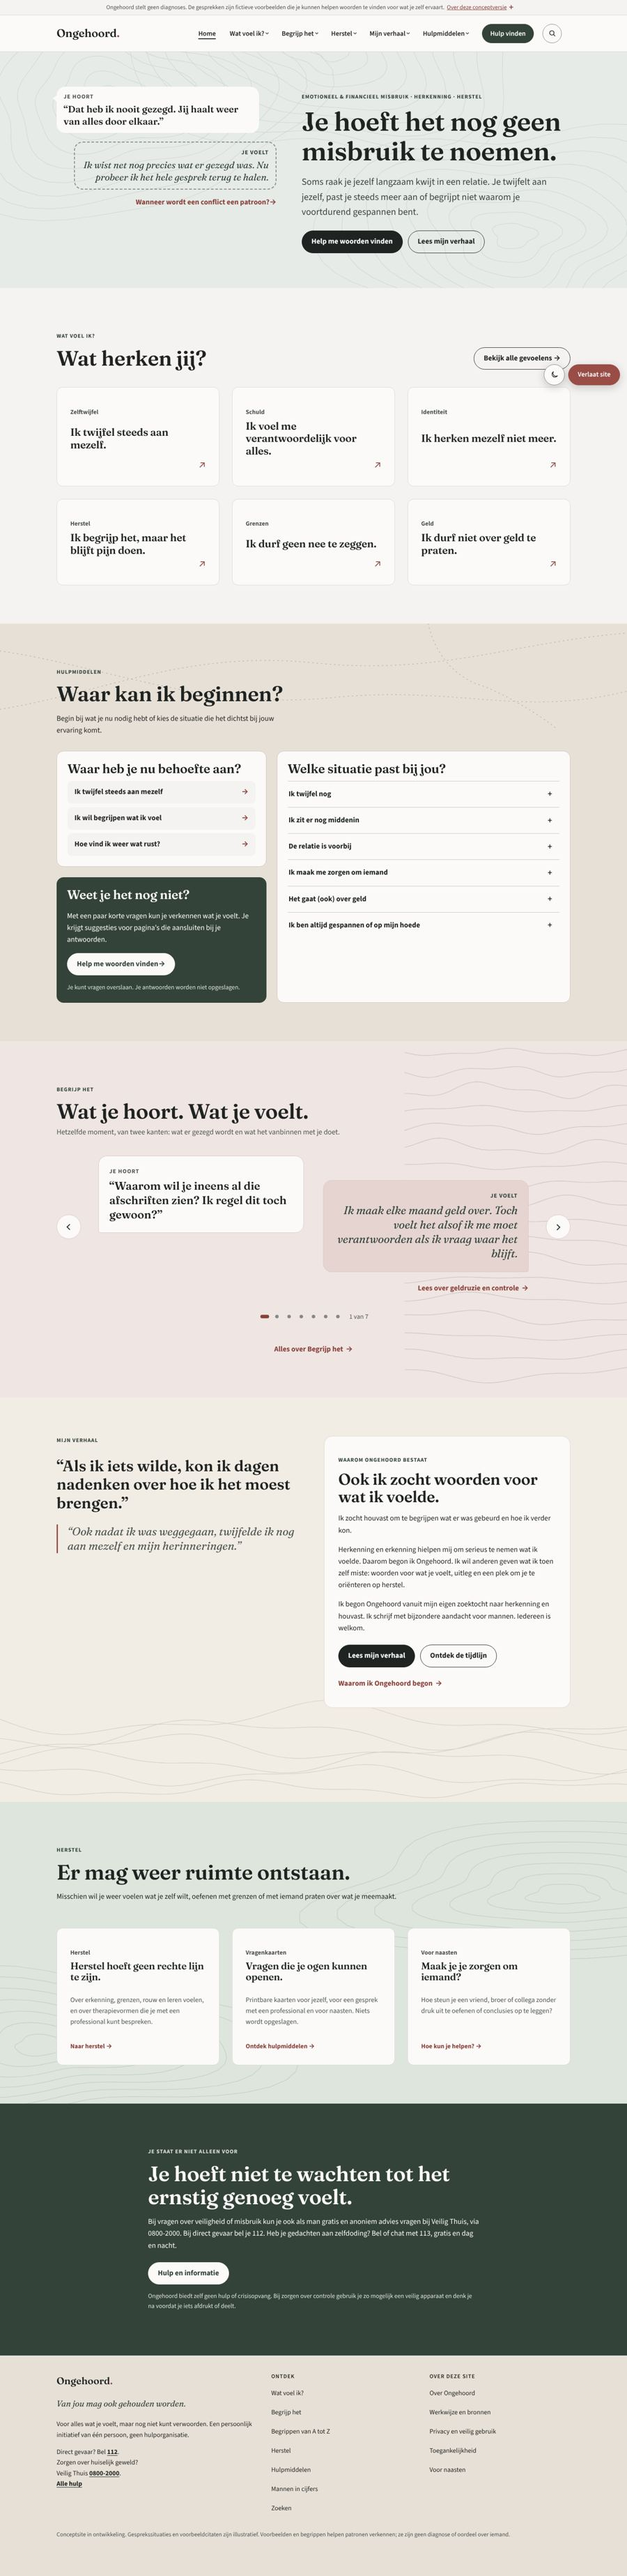
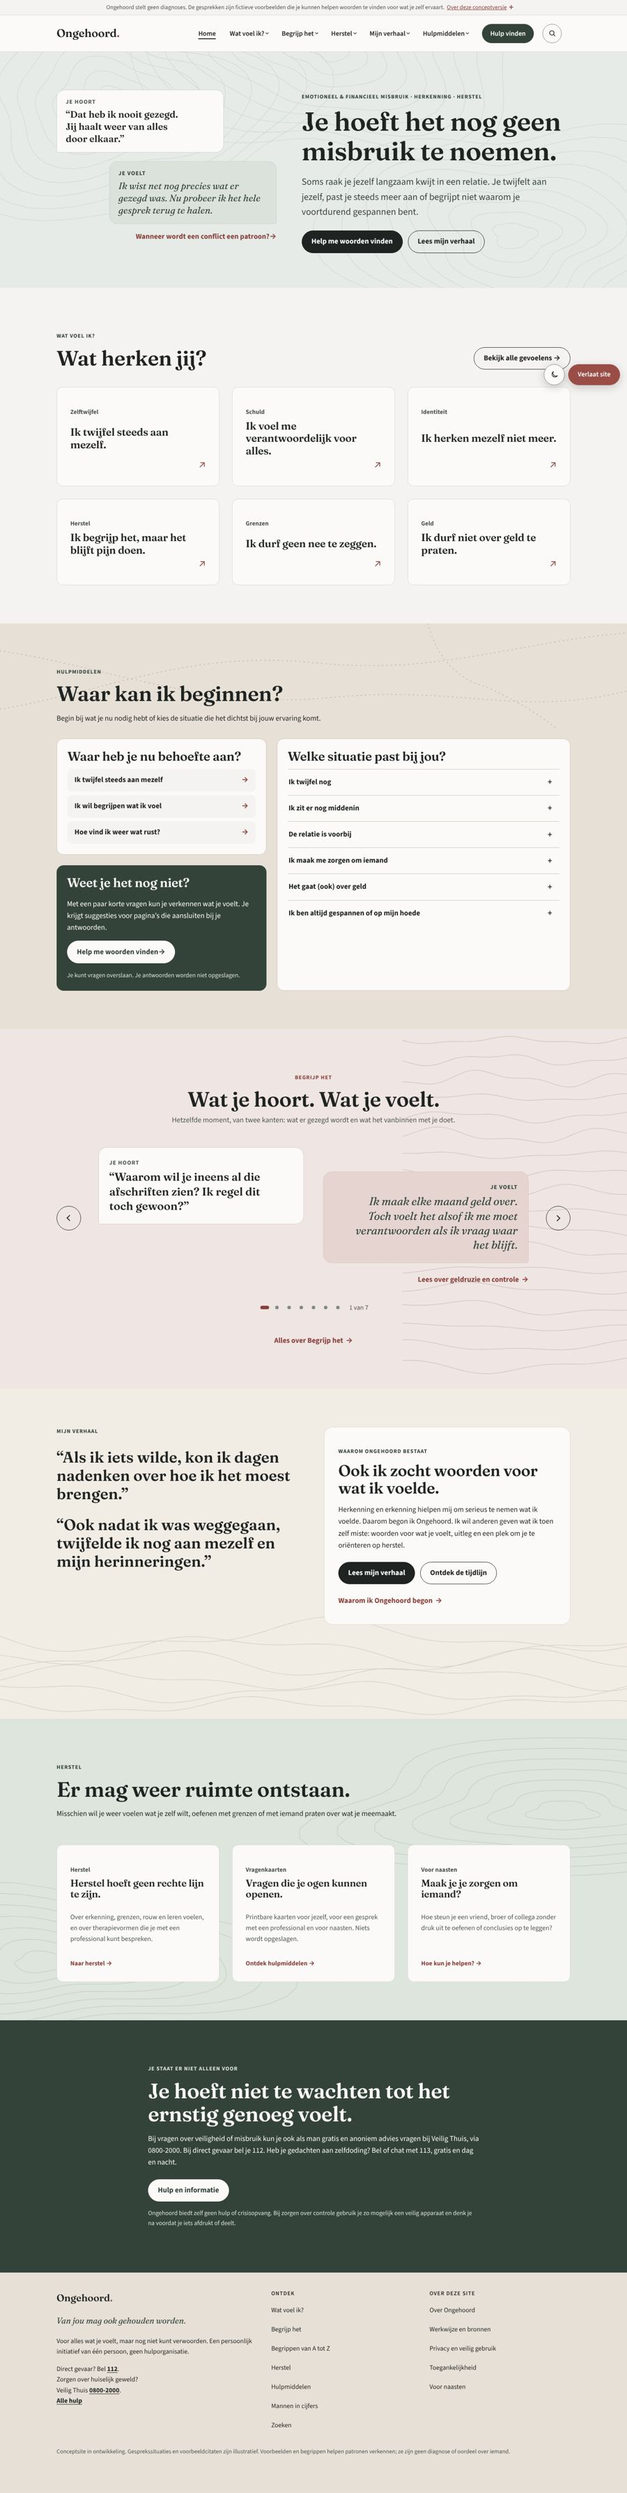
Bring the homepage closer to the canvas after founder review
- Hero chat: two solid bubbles with a line, both read from the start; the
  feeling bubble is a quiet green, not dashed and not the Begrijpen rose. The
  chat sits level with the heading.
- Begrijpen: heading centred above the symmetrical examples, arrows as on the
  canvas, balanced line endings in the bubbles.
- Beginnen: the lead stays on one line on wide screens.
- Mijn verhaal: both quotes at the same size; the card shows the canvas text.

Refs #71

Claude-Session: https://claude.ai/code/session_01EGkh59gzny4aKhZTkfioLr

diff --git a/docs/DESIGN_HOME_STORYTELLING.md b/docs/DESIGN_HOME_STORYTELLING.md
@@ -46,11 +46,12 @@ Rules:
 - The heading and lead come first, then the conversation as one card with two solid bubbles, dots, a count and pause.
 - The card can be swiped.
 
-## Text that moved (founder review)
+## Text on the homepage (founder review)
 
-These texts moved unchanged:
+Unchanged text that moved or is no longer shown:
 
-- The hero description ("Ik begon Ongehoord vanuit mijn eigen zoektocht …") is now the last paragraph of the "Ook ik zocht woorden" card.
-- The two quotes now open the Mijn verhaal chapter.
+- The two quotes now open the Mijn verhaal chapter, at the same size, beside the "Ook ik zocht woorden" card.
+- As on the canvas, the card shows only the last storyTeaser paragraph.
+- The first paragraph ("Ik zocht houvast …") and the former hero description ("Ik begon Ongehoord vanuit mijn eigen zoektocht …") are no longer shown on the Dutch homepage. They are still in `src/content/hubs/home.md`.
 
 Chapter eyebrows are now pillar names: Wat voel ik?, Hulpmiddelen, Begrijp het, Mijn verhaal, Herstel. They replace "Begin bij jezelf", "Twee kanten van één gesprek" and "Herstel & hulpmiddelen" on the Dutch homepage only.
